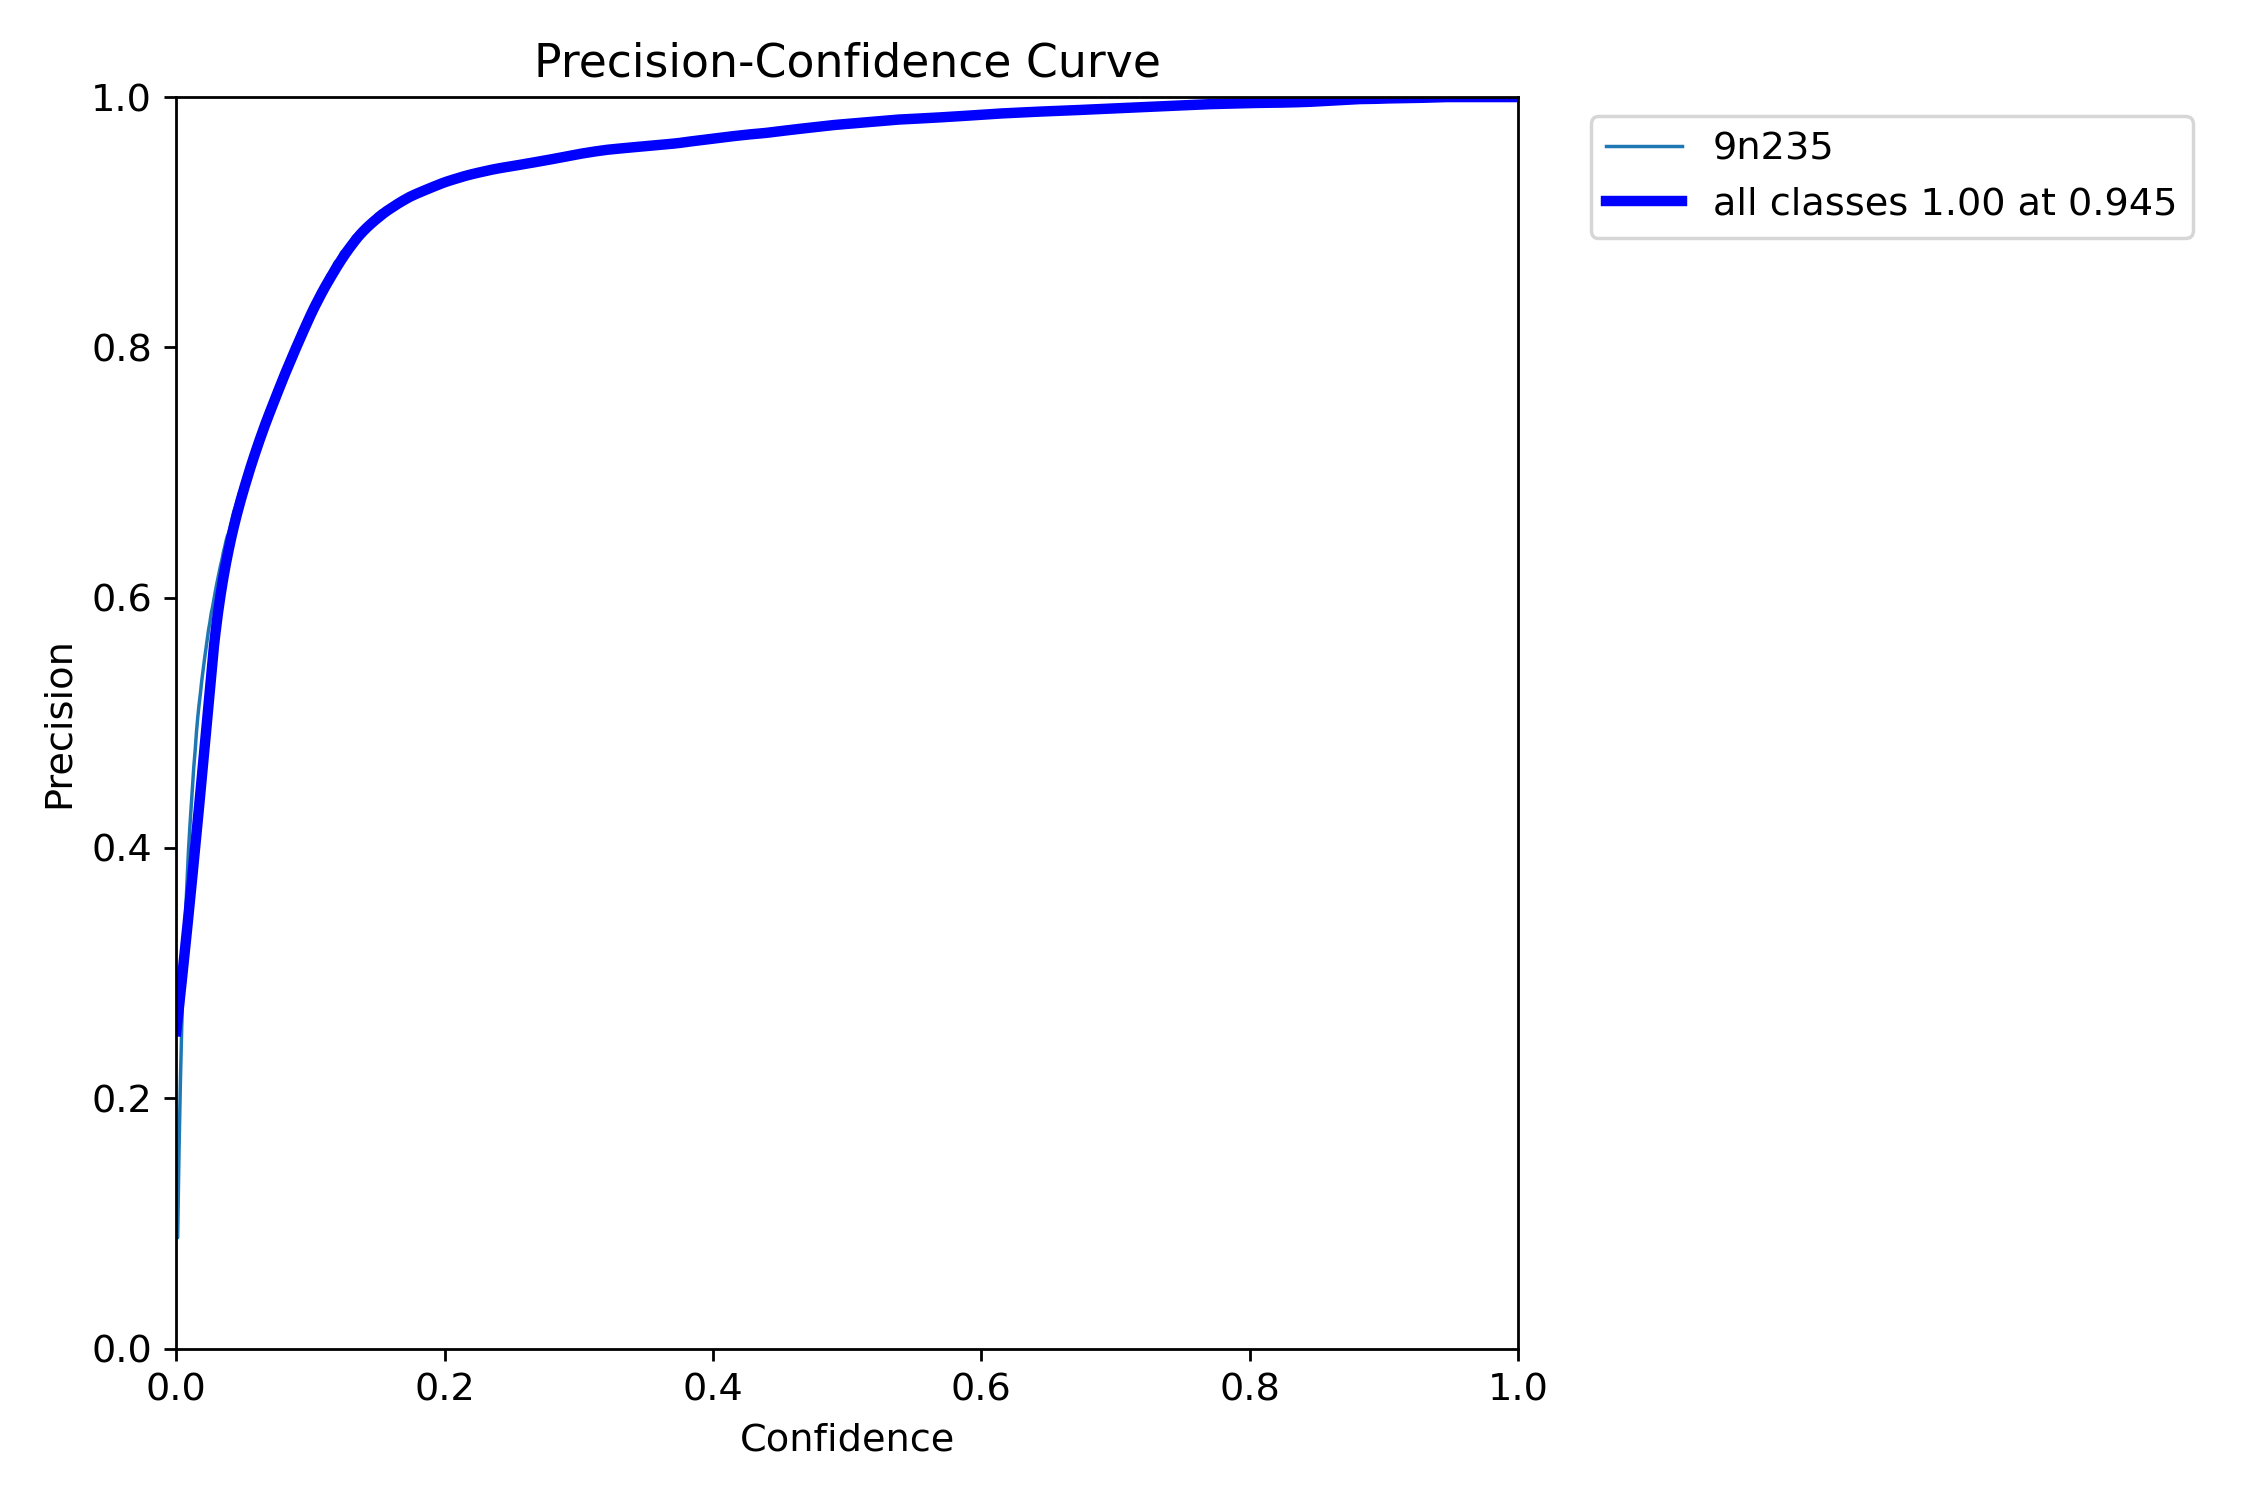
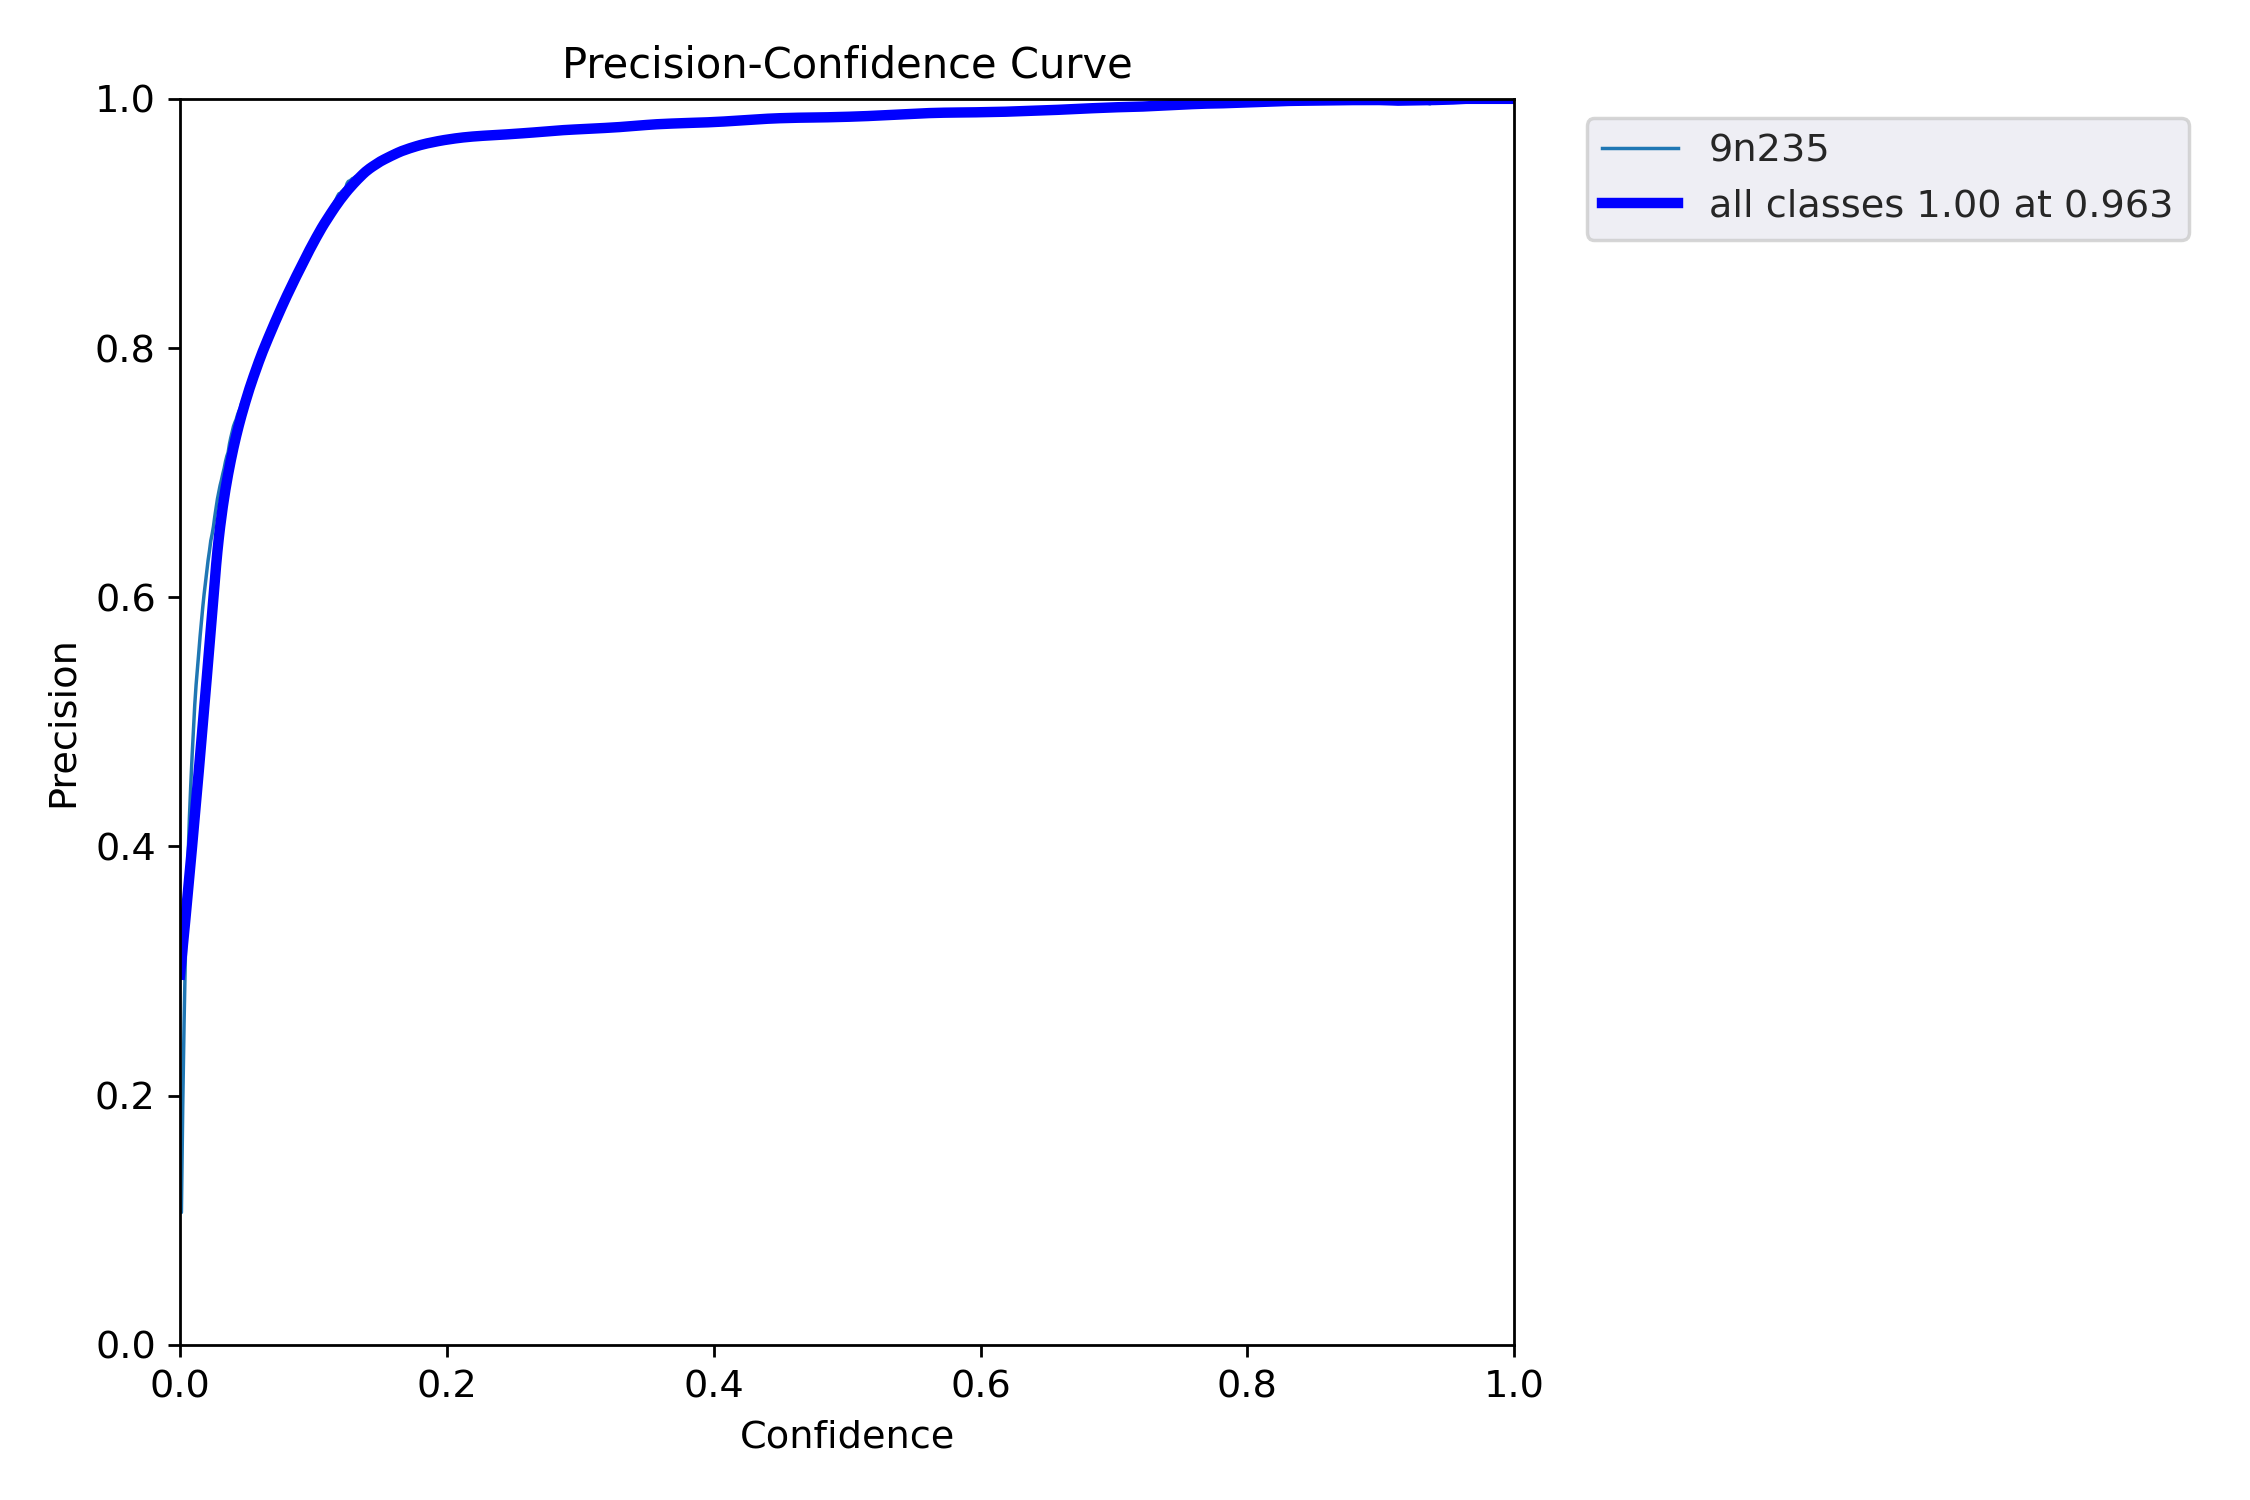
Update to 1D

diff --git a/content/docs/detectors/9n235/index.md b/content/docs/detectors/9n235/index.md
@@ -25,7 +25,8 @@ vf pipe open -i input/ detect -m 9n235 draw display
 ```
 
 #### Updates:
-- February 2023: Improved detection models (version 1C) released
+- April 2023: Model updated to 1D. Slightly improved recall and lower false positives.
+- February 2023: Improved detection models (version 1D) released
 - October 2022:  VFRAME partner Tech 4 Tracing dispatches [policy brief (PDF)](https://tech4tracing.org/s/T4T-PolicyBrief1-Aug2022.pdf) on using new technology for illicit arms control following our joint presentation at United Nations in summer 2022
 - June 2022: VFRAME presents prototype 9N235 and AO-2.5RT detectors at United Nations Eighth Biennial Meeting of States on Small Arms and Light Weapons in NYC with Tech 4 Tracing
 
@@ -35,7 +36,7 @@ vf pipe open -i input/ detect -m 9n235 draw display
 
 In spring of 2022 the VFRAME team partnered with [Tech 4 Tracing](https://tech4tracing.org) to visit an explosive ordnance training center in Europe with the goal of capturing photogrammetry scans of free-from-explosive (FFE) submunitions, including the 9N210 submunition (pictured above). Several hundred high-resolution photos were used to reconstruct a millimeter-accurate 3D model of the submunition's geometry. With the high-fidelity 3D model as a reference, thousands of procedurally randomized photorealistic synthetic training images were generated, annotated, then used to train a convolutional neural network object detection algorithm.
 
-**The current 9N235/9N210 object detector model yields a 0.98 F1 score** on a custom benchmark dataset with challenging examples including partially occluded, partially exploded, damaged, dirt-covered munitions in various weather conditions from various camera angles and lenses. The new model (version 1C) was released on February 1, 2023, is available for download with a MIT license at [github.com/vframeio/vframe](https://github.com/vframeio/vframe), and improves the overall performance of the previous model (version 1B) released in July last year. 
+**The current 9N235/9N210 object detector model yields a 0.98 F1 score** on a custom benchmark dataset with challenging examples including partially occluded, partially exploded, damaged, dirt-covered munitions in various weather conditions from various camera angles and lenses. The latest model, version 1D, was released on April 16, 2023, is available for download with a MIT license at [github.com/vframeio/vframe](https://github.com/vframeio/vframe), and improves the overall performance of the previous model (version 1B) released in July last year. 
 
 <div class="video-player" >
     <video width="100%" height="auto" controls poster="images/9n235_model_07_2740_poster.jpg">
@@ -43,13 +44,13 @@ In spring of 2022 the VFRAME team partnered with [Tech 4 Tracing](https://tech4t
         Your browser does not support the video tag.
     </video>
     <div class="caption">
-        Test video showing detections for 9N235 using the version 1C object detector
+        Test video showing detections for 9N235 using the version 1D object detector
     </div>
 </div>
 
 {{% include "/docs/detectors/9n235/data/metrics.md" %}}
 
-The current version (1C) performs best on human-height videos or images created with smartphone cameras and is designed to handle typical artifacts common in online imagery including watermarks, compression, light motion blur, and various image ratios. An additional version designed for aerial detection is planned for release later this year. 
+The current version (1D) performs best on human-height videos or images created with smartphone cameras and is designed to handle typical artifacts common in online imagery including watermarks, compression, light motion blur, and various image ratios. An additional version designed for aerial detection is planned for release later this year. 
 
 
 ### About VFRAME
@@ -220,7 +221,7 @@ More feedback and more testing images are welcome. Reach out to the VFRAME team 
 
 ### Performance
 
-The model is trained in multiple architectures for deployment on workstations or mobile/edge devices. Running on a HEDT (high-end desktop workstation) achieves a maximum 187 FPS with the nano architecture and the full performance (recommended) model reaches 43 FPS. 
+The model is trained in multiple architectures for deployment on workstations or mobile/edge devices. Running on a HEDT (high-end desktop workstation) achieves a maximum 187 FPS with the nano architecture and the full performance (recommended) model reaches 41 FPS. 
 
 ![Frames per second on NVIDIA 3090 at 1280 pixels inference size averaged over 100 iterations for nano, small, medium, and large YOLOV5 architectures at batch size 8 using .pt model format](images/9n235-fps-bs8.png)
 
@@ -255,7 +256,7 @@ This project is an example of new technology-based innovations that will continu
 
 - Development of the 9N235/9N210 detector is largely based on several years of prior research supported by grants from Prototype Fund and SIDA/Meedan (2019-2021)
 - Initial prototypes and development self-supported by workshops and exhibition fees (2022-2023)
-- Performance improvements and benchmark dataset improvements for version 1C supported by [Fenix Insight](https://fenix-insight.com/) (2022-2023)
+- Performance improvements and benchmark dataset improvements for version 1D supported by [Fenix Insight](https://fenix-insight.com/) (2022-2023)
 - Read more about VFRAME's supporters [here](/funding/)
 
 

diff --git a/content/docs/detectors/9n235/data/metrics.md b/content/docs/detectors/9n235/data/metrics.md
@@ -1,6 +1,6 @@
-| version   |       f1 |   precision |   recall |    map50 |      map |   img_size | FPS | Model | Labels |
-|:---|-----:|------:|-----:|-----:|-----:|-----:|-----:|-----:|-----:|
-| L6.v1c | 0.9818 |    0.9885 | 0.9751 | 0.9878 | 0.9262 |       1280 |    43.13 | [vf_9n235_01c_l6.pt](https://files.vframe.io/v2/models/detection/9n235/vf_9n235_01c_l6.pt) | [labels.txt](https://files.vframe.io/v2/models/detection/9n235/labels.txt)|
-| M6.v1c | 0.9392 |    0.9465 | 0.9320 | 0.9720 | 0.8777  |       1280 |    72.09 | [vf_9n235_01c_m6.pt](https://files.vframe.io/v2/models/detection/9n235/vf_9n235_01c_m6.pt) | [labels.txt](https://files.vframe.io/v2/models/detection/9n235/labels.txt)|
-| S6.v1c | 0.9626 |    0.9820 | 0.9439 | 0.9786 | 0.8632 |       1280 |    127.48 | [vf_9n235_01c_s6.pt](https://files.vframe.io/v2/models/detection/9n235/vf_9n235_01c_s6.pt) | [labels.txt](https://files.vframe.io/v2/models/detection/9n235/labels.txt)|
-| N6.v1c | 0.9376 |    0.9523 | 0.9234 | 0.9699 | 0.8387 |       1280 |    187.63 | [vf_9n235_01c_s6.pt](https://files.vframe.io/v2/models/detection/9n235/vf_9n235_01c_n6.pt) | [labels.txt](https://files.vframe.io/v2/models/detection/9n235/labels.txt)|
+| Name   |       F1 |   Precision |   Recall |    mAP50 | Size |    FPS | Model              | Labels     |
+|:-------|---------:|------------:|---------:|---------:|-------:|-------:|:-------------------|:-----------|
+| 01d_l6 | 0.982978 |    0.991039 | 0.975046 | 0.99045  |  1280 | 41.24 | [vf_9n235_01c_l6.pt](https://files.vframe.io/v2/models/detection/9n235/vf_9n235_01c_l6.pt) | [labels.txt](https://files.vframe.io/v2/models/detection/9n235/labels.txt) |
+| 01d_m6 | 0.980622 |    0.989115 | 0.972274 | 0.992635 |  1280 | 67.54 | [vf_9n235_01c_m6.pt](https://files.vframe.io/v2/models/detection/9n235/vf_9n235_01c_m6.pt) | [labels.txt](https://files.vframe.io/v2/models/detection/9n235/labels.txt) |
+| 01d_s6 | 0.940477 |    0.950479 | 0.930684 | 0.970933 | 1280 | 124.34 | [vf_9n235_01c_s6.pt](https://files.vframe.io/v2/models/detection/9n235/vf_9n235_01c_s6.pt) | [labels.txt](https://files.vframe.io/v2/models/detection/9n235/labels.txt) |
+| 01d_n6 | 0.904164 |    0.921741 | 0.887246 | 0.944541 | 1280 | 187.1  | [vf_9n235_01c_n6.pt](https://files.vframe.io/v2/models/detection/9n235/vf_9n235_01c_n6.pt) | [labels.txt](https://files.vframe.io/v2/models/detection/9n235/labels.txt) |

diff --git a/content/docs/about/changelog.md b/content/docs/about/changelog.md
@@ -15,9 +15,9 @@ images:
 Short updates on VFRAME development progress, bug fixes, model releases, and news to provide transparency into project development and activity.
 
 April 14
-- Retrain the 9N235/9N210 detectors with new data to improve recall for damaged and partial objects and reduce false positives
+- Retrain the 9N235/9N210 detectors with new data to improve recall for damaged and partial objects and reduce false positives.
 - Update 9N235 detector models to version 1D on [demos.vframe.io](https://demos.vframe.io)
-- Separate SHA256 media deduplication script to separate command group `dedup` and small usability improvements for handling added and removed media items
+- Separate SHA256 media deduplication script to new command group `dedup` and small usability improvements for handling added and removed media items (example: `vf dedup sha256 -i path/to/videos/`)
 
 April 13
 - Moved modelzoo.vframe.io --> [demos.vframe.io](https://demos.vframe.io)
